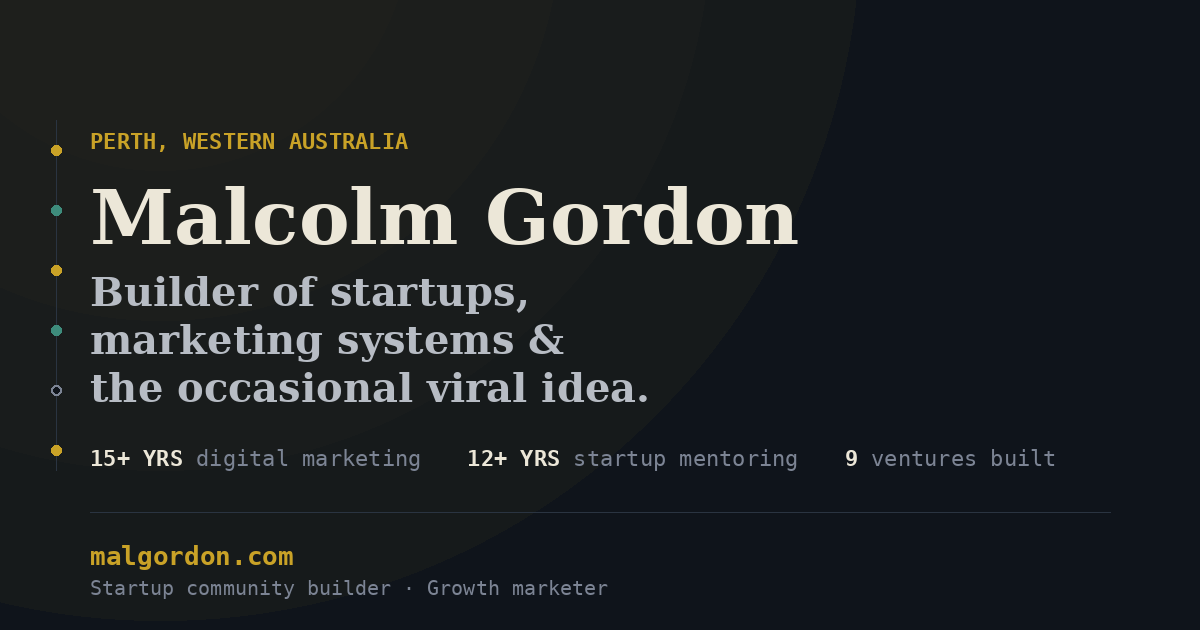
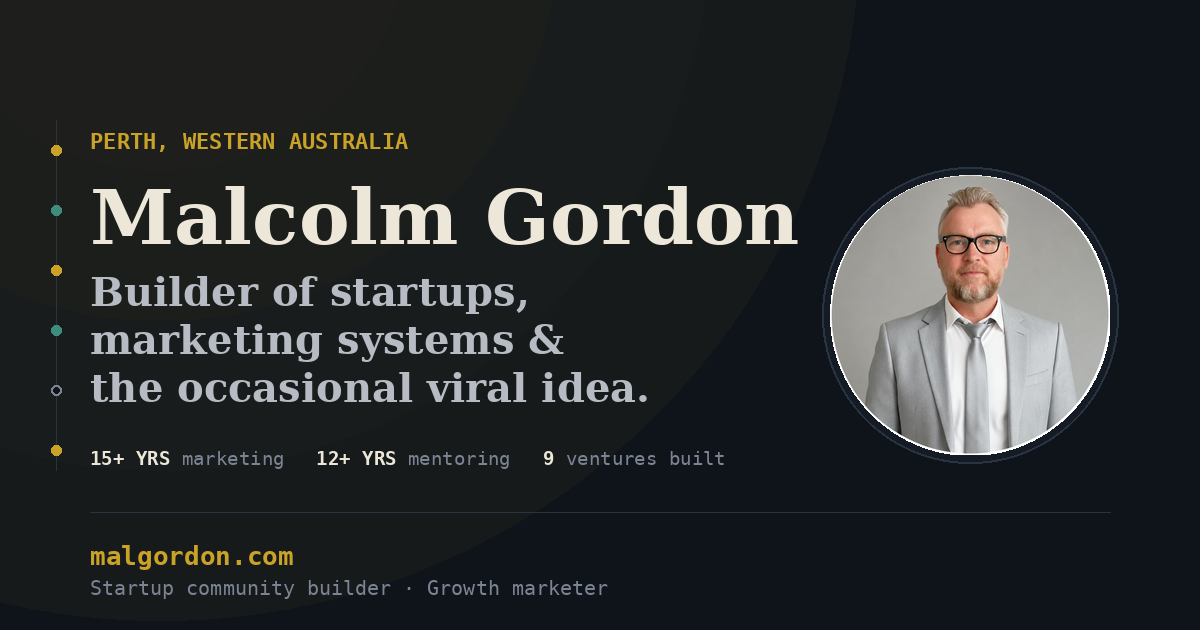
Add profile photo to OG/Twitter share image

Changed region(s): [[0.6783, 0.2413, 0.925, 0.754], [0.0617, 0.6937, 0.6783, 0.754]]

diff --git a/scripts/build_brand_assets.py b/scripts/build_brand_assets.py
@@ -60,16 +60,20 @@ d.text((margin_x, 316), "marketing systems &", font=tagline_font, fill=INK_DIM)
 d.text((margin_x, 364), "the occasional viral idea.", font=tagline_font, fill=INK_DIM)
 
 # ticker strip stats
-stat_font = ImageFont.truetype(MONO, 22)
-stat_font_b = ImageFont.truetype(MONO_BOLD, 22)
-stats = [("15+ YRS", " digital marketing"), ("12+ YRS", " startup mentoring"), ("9", " ventures built")]
+stat_font = ImageFont.truetype(MONO, 19)
+stat_font_b = ImageFont.truetype(MONO_BOLD, 19)
+stats = [("15+ YRS", " marketing"), ("12+ YRS", " mentoring"), ("9", " ventures built")]
 sx = margin_x
-sy = 445
+sy = 447
+max_x = W - 90 - 300 - 40
 for bold_part, rest in stats:
-    d.text((sx, sy), bold_part, font=stat_font_b, fill=INK)
     bw = d.textlength(bold_part, font=stat_font_b)
+    rw = d.textlength(rest, font=stat_font)
+    if sx + bw + rw > max_x:
+        break
+    d.text((sx, sy), bold_part, font=stat_font_b, fill=INK)
     d.text((sx + bw, sy), rest, font=stat_font, fill=MUTED)
-    sx += bw + d.textlength(rest, font=stat_font) + 46
+    sx += bw + rw + 32
 
 # bottom rule + url
 d.line([(margin_x, 512), (W - 90, 512)], fill=RULE, width=1)
@@ -78,6 +82,39 @@ d.text((margin_x, 540), "malgordon.com", font=url_font, fill=GOLD)
 
 sub_font = ImageFont.truetype(MONO, 20)
 d.text((margin_x, 576), "Startup community builder · Growth marketer", font=sub_font, fill=MUTED)
+
+# --- profile photo, circular, right side ---
+photo_path = "assets/malcolm-gordon.jpg"
+if os.path.exists(photo_path):
+    photo_d = 280
+    photo = Image.open(photo_path).convert("RGB")
+    side = min(photo.size)
+    left = (photo.width - side) // 2
+    top = (photo.height - side) // 2
+    photo = photo.crop((left, top, left + side, top + side)).resize((photo_d, photo_d), Image.LANCZOS)
+
+    mask = Image.new("L", (photo_d, photo_d), 0)
+    mdraw = ImageDraw.Draw(mask)
+    mdraw.ellipse([0, 0, photo_d, photo_d], fill=255)
+
+    px = W - 90 - photo_d
+    py = (H - photo_d) // 2
+
+    # ring behind photo matching --bg-alt, plus thin rule border
+    ring_pad = 8
+    img_rgba = img.convert("RGBA")
+    ring_layer = ImageDraw.Draw(img_rgba)
+    ring_layer.ellipse(
+        [px - ring_pad, py - ring_pad, px + photo_d + ring_pad, py + photo_d + ring_pad],
+        fill=BG_ALT,
+    )
+    ring_layer.ellipse(
+        [px - ring_pad, py - ring_pad, px + photo_d + ring_pad, py + photo_d + ring_pad],
+        outline=RULE, width=2,
+    )
+    img_rgba.paste(photo, (px, py), mask)
+    img = img_rgba.convert("RGB")
+    d = ImageDraw.Draw(img)
 
 img.save("assets/social-share.png", "PNG", optimize=True)
 print("wrote assets/social-share.png", img.size)
